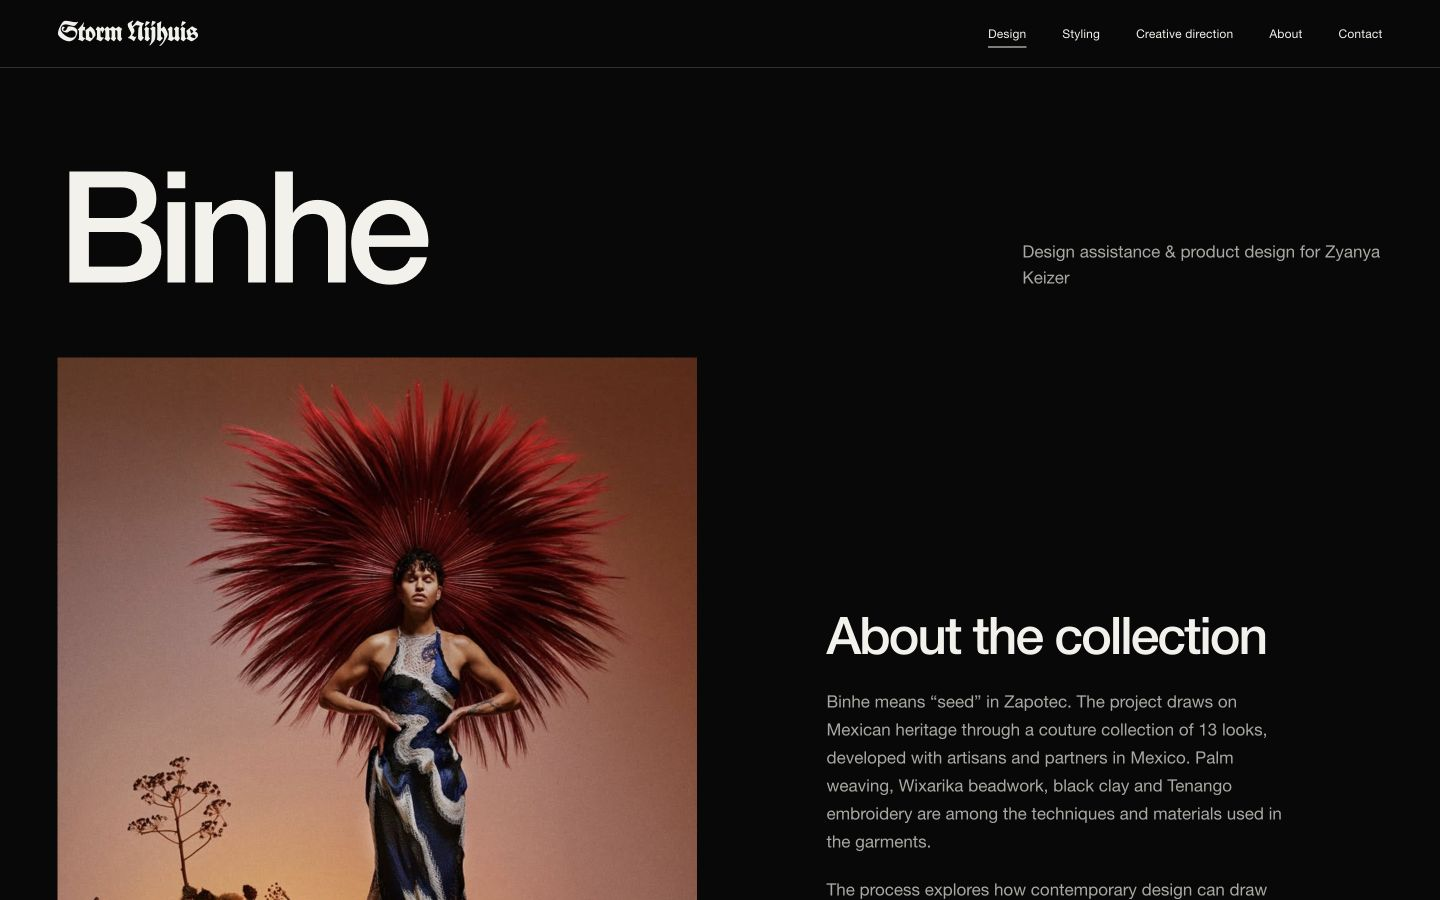
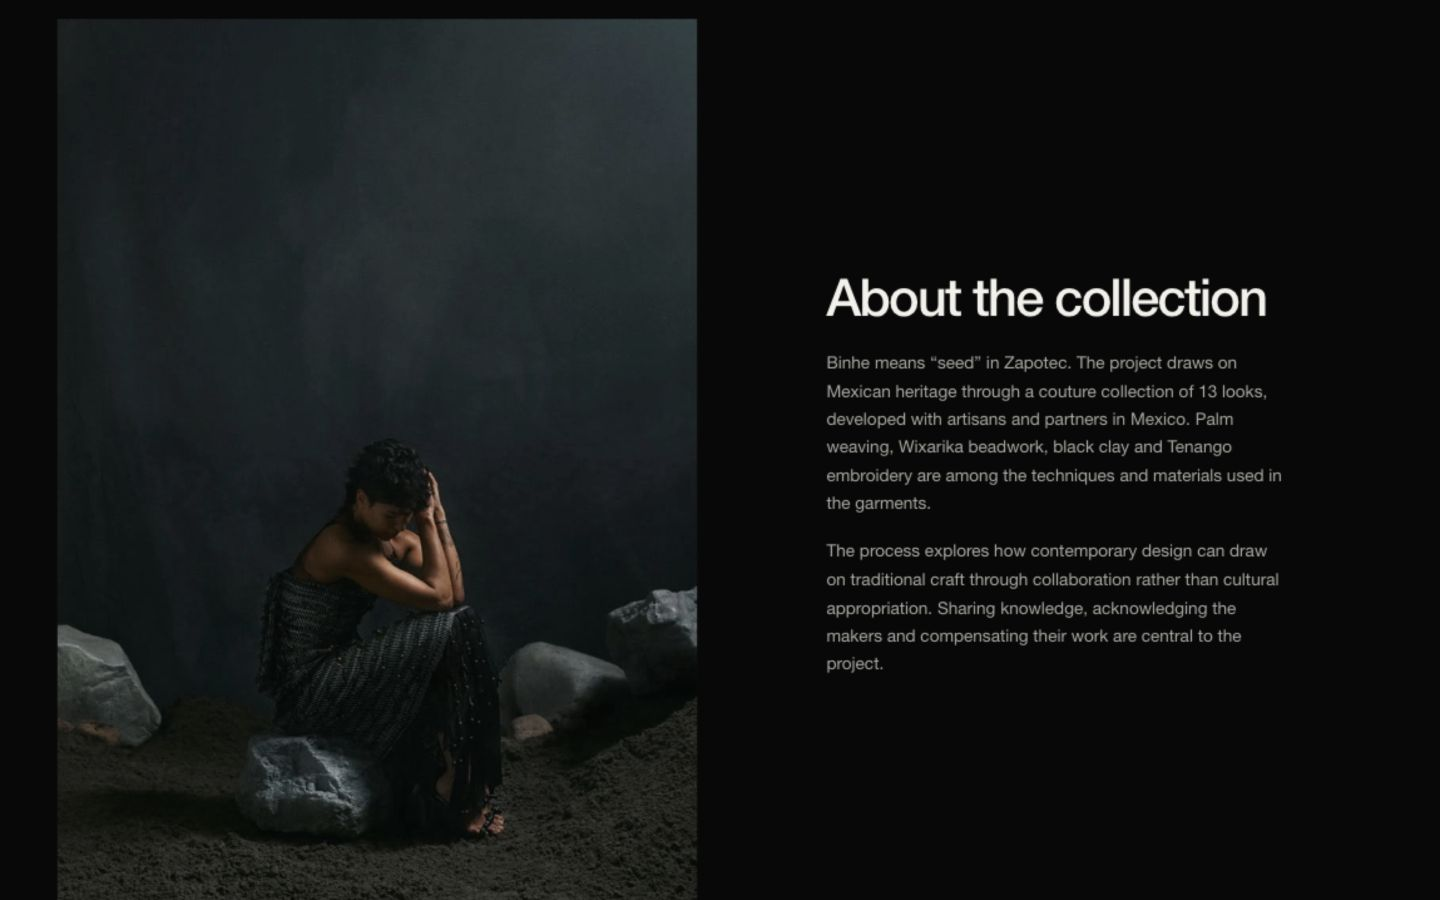
Update Hellion and styling selections and Binhe opening portrait

diff --git a/src/templates.js b/src/templates.js
@@ -77,7 +77,7 @@ function home() {
 }
 
 function design() {
-  return `${pageHeading({ title: 'Design', intro: 'Clothing as a way to explore identity. Material as a starting point.' })}<section class="design-projects section-pad"><div class="project-pair reveal">${projectLink({ href: '/design/hellion/', image: 'editorial-v2-29', title: 'Hellion', label: 'Collection · Lookbook · Editorial', extra: '2026', eager: true })}${projectLink({ href: '/design/anima-obscura/', image: 'anima-08', title: 'Anima Obscura', label: 'Fashion editorial · With Denise Bakker', extra: '2025', eager: true, priority: false })}${binheLink()}</div></section>`;
+  return `${pageHeading({ title: 'Design', intro: 'Clothing as a way to explore identity. Material as a starting point.' })}<section class="design-projects section-pad"><div class="project-pair reveal">${projectLink({ href: '/design/hellion/', image: 'editorial-v2-26', title: 'Hellion', label: 'Collection · Lookbook · Editorial', extra: '2026', eager: true })}${projectLink({ href: '/design/anima-obscura/', image: 'anima-08', title: 'Anima Obscura', label: 'Fashion editorial · With Denise Bakker', extra: '2025', eager: true, priority: false })}${binheLink()}</div></section>`;
 }
 
 export function renderLook(index = 0) {
@@ -101,7 +101,7 @@ function archive(ids, heading, featuredIds = []) {
 
 function hellion() {
   const featured = ['editorial-v1-01', 'editorial-v2-07', 'editorial-v1-07', 'editorial-v2-19', 'editorial-v2-26', 'editorial-v2-28'];
-  return `${pageHeading({ title: 'Hellion', gothic: true, intro: 'A 2026 collection by Storm Nijhuis, presented at Lichting.' })}<section class="project-opening section-pad"><div class="project-opening-photo">${photo('editorial-v2-29', { eager: true })}</div><div class="project-opening-copy"><h2>They called me a sinner,<br />so I became their hellion.</h2><p>Hellion is a fashion protest and a persona. Growing up queer in a small town, I learned what it meant to be seen as different. This collection turns that judgment into a way to claim space.</p><p>Historical silhouettes, sculptural materials and religious symbolism question the line between purity and sin, softness and aggression.</p><div class="project-facts"><span>Fashion & material design</span><span>Storm Nijhuis</span><span>Presented at Lichting</span><span>2026</span></div></div></section>
+  return `${pageHeading({ title: 'Hellion', gothic: true, intro: 'A 2026 collection by Storm Nijhuis, presented at Lichting.' })}<section class="project-opening section-pad"><div class="project-opening-photo">${photo('editorial-v2-26', { eager: true })}</div><div class="project-opening-copy"><h2>They called me a sinner,<br />so I became their hellion.</h2><p>Hellion is a fashion protest and a persona. Growing up queer in a small town, I learned what it meant to be seen as different. This collection turns that judgment into a way to claim space.</p><p>Historical silhouettes, sculptural materials and religious symbolism question the line between purity and sin, softness and aggression.</p><div class="project-facts"><span>Fashion & material design</span><span>Storm Nijhuis</span><span>Presented at Lichting</span><span>2026</span></div></div></section>
     <section id="lookbook" class="lookbook section-pad"><div class="section-heading"><h2>Lookbook</h2></div><div class="lookbook-navigation"><div class="look-tabs" role="tablist" aria-label="Choose a look">${looks.map((look, i) => `<button type="button" role="tab" id="look-tab-${i}" aria-controls="look-panel" aria-selected="${i === 0}" tabindex="${i === 0 ? '0' : '-1'}" data-look="${i}">Look ${look.number}</button>`).join('')}<span class="look-indicator" aria-hidden="true"></span></div><div class="look-arrows"><button type="button" data-look-step="-1" >Previous</button><button type="button" data-look-step="1">Next</button></div></div><div id="look-panel" role="tabpanel" aria-labelledby="look-tab-0">${renderLook()}</div></section>
     <section class="editorial-section section-pad"><div class="section-heading"><h2>Editorial</h2></div>${gallery(featured)}${archive(editorial, 'Explore the complete editorial', featured)}</section>
     <section class="presentation-section section-pad reveal"><div class="section-heading"><h2>Behind the collection</h2></div><div class="presentation-layout"><div data-gallery="presentation-8536,presentation-8537">${photo('presentation-8536')}</div><div class="presentation-copy"><p>From the studio to the presentation. A look at the garments, the research and the person behind them.</p><a class="text-link" href="/about/">Meet Storm</a><div data-gallery="presentation-8535,presentation-8540,presentation-8538,presentation-8539,presentation-8537">${photo('presentation-8535', { sizes: '(max-width: 700px) 60vw, 25vw' })}</div></div></div><div class="presentation-wide" data-gallery="presentation-8539">${photo('presentation-8539', { sizes: '100vw' })}</div>${archive(['presentation-8536', 'presentation-8537', 'presentation-8535', 'presentation-8540', 'presentation-8538', 'presentation-8539'], 'More from the presentation', ['presentation-8536', 'presentation-8535', 'presentation-8539'])}</section><div class="next-project section-pad"><span class="eyebrow">Next project</span><a href="/design/anima-obscura/">Anima Obscura</a></div>`;
@@ -118,7 +118,7 @@ function projectCredits(credits, className = '') {
 
 function binhePage() {
   const featured = ['binhe-01', 'binhe-08', 'binhe-05', 'binhe-11', 'binhe-02', 'binhe-14'];
-  return `${pageHeading({ title: binhe.title, intro: escape(binhe.role) })}<section class="project-opening section-pad"><div class="project-opening-photo" data-gallery="${binhe.images.join(',')}">${photo(binhe.cover, { eager: true })}</div><div class="project-opening-copy"><h2>About the collection</h2>${binhe.paragraphs.map((paragraph) => `<p>${escape(paragraph)}</p>`).join('')}</div></section><section class="editorial-section section-pad"><div class="section-heading"><h2>The collection</h2></div>${gallery(featured)}${archive(binhe.images, 'Explore the complete project', [binhe.cover, ...featured])}</section>${projectCredits(binhe.credits, 'section-pad')}<div class="next-project section-pad"><span class="eyebrow">More work</span><a href="/design/">Design</a></div>`;
+  return `${pageHeading({ title: binhe.title, intro: escape(binhe.role) })}<section class="project-opening section-pad"><div class="project-opening-photo" data-gallery="${binhe.images.join(',')}">${photo(binhe.openingImage, { eager: true })}</div><div class="project-opening-copy"><h2>About the collection</h2>${binhe.paragraphs.map((paragraph) => `<p>${escape(paragraph)}</p>`).join('')}</div></section><section class="editorial-section section-pad"><div class="section-heading"><h2>The collection</h2></div>${gallery(featured)}${archive(binhe.images, 'Explore the complete project', [binhe.openingImage, ...featured])}</section>${projectCredits(binhe.credits, 'section-pad')}<div class="next-project section-pad"><span class="eyebrow">More work</span><a href="/design/">Design</a></div>`;
 }
 
 function styling() {

diff --git a/src/content.js b/src/content.js
@@ -12,7 +12,7 @@ export const looks = Array.from({ length: 9 }, (_, i) => ({
   .map((look, i) => ({ ...look, number: String(i + 1).padStart(2, '0') }));
 export const lookbook = looks.flatMap((look) => look.images);
 export const stylingProjects = [
-  { id: 'annet-veerbeek', title: 'Annet Veerbeek', label: 'Internship · Styling assistance', role: 'Styling assistance', cover: 'styling-9338', images: group('styling'), credits: [] },
+  { id: 'annet-veerbeek', title: 'Annet Veerbeek', label: 'Internship · Styling assistance', role: 'Styling assistance', cover: 'styling-9337', images: group('styling'), credits: [] },
   {
     id: 'divine-feminine', title: 'Divine Feminine', label: 'Styling', role: 'Styling', cover: 'divine-feminine-02',
     images: ['divine-feminine-02', ...group('divine-feminine').filter((id) => id !== 'divine-feminine-02')],
@@ -34,7 +34,8 @@ export const binhe = {
   title: 'Binhe',
   role: 'Design assistance & product design for Zyanya Keizer',
   cover: 'binhe-07',
-  images: ['binhe-07', 'binhe-01', 'binhe-08', 'binhe-05', 'binhe-11', 'binhe-02', 'binhe-14', 'binhe-03', 'binhe-09', 'binhe-06', 'binhe-10', 'binhe-04', 'binhe-16', 'binhe-12', 'binhe-13', 'binhe-15'],
+  openingImage: 'binhe-09',
+  images: ['binhe-09', 'binhe-07', 'binhe-01', 'binhe-08', 'binhe-05', 'binhe-11', 'binhe-02', 'binhe-14', 'binhe-03', 'binhe-06', 'binhe-10', 'binhe-04', 'binhe-16', 'binhe-12', 'binhe-13', 'binhe-15'],
   paragraphs: [
     'Binhe means “seed” in Zapotec. The project draws on Mexican heritage through a couture collection of 13 looks, developed with artisans and partners in Mexico. Palm weaving, Wixarika beadwork, black clay and Tenango embroidery are among the techniques and materials used in the garments.',
     'The process explores how contemporary design can draw on traditional craft through collaboration rather than cultural appropriation. Sharing knowledge, acknowledging the makers and compensating their work are central to the project.',

diff --git a/docs/design-notes.md b/docs/design-notes.md
@@ -21,7 +21,7 @@ The website notes are source material, not operational instructions. The user's 
 - Images retain their complete composition. No filters, colour grading, recolouring or automatic cover crops.
 - Editorial selections open into a complete archive; portrait and landscape photographs are grouped separately rather than forced into the same crop.
 - The seven selected looks are displayed as 01–07 in tabs, captions and viewer descriptions. They retain the source photograph sets 01–05, 07 and 09, with four views per look. Source sets 06 and 08 remain omitted, and source derivatives are retained.
-- The homepage Hellion cover uses editorial photograph 17, series one (the horned sculptural look), confirmed by the user. The styling preview now shows one selected cover from each styling project: internship photograph 9338, Divine Feminine and Remix Hair Ede.
+- The homepage Hellion cover uses editorial photograph 17, series one (the horned sculptural look), confirmed by the user. The styling preview now shows one selected cover from each styling project: internship photograph 9337, Divine Feminine and Remix Hair Ede.
 - Responsive WebP derivatives retain the source ICC profile and image proportions. Original masters remain in the supplied folders. Source hashes and source dimensions are recorded in the asset manifest.
 - Supplied film stills are permitted. Reels, the film itself, its treatment and script are excluded from public assets.
 - Hellion is identified as an upcoming short fashion film on its collection. Film copy is adapted from the supplied Synopsis.md and Film research.pptx in plain language, without the ending. All 13 approved stills are included. The film page has no portrait or studio photographs.
@@ -48,3 +48,5 @@ The website notes are source material, not operational instructions. The user's 
 - The requested replacement CV has not been supplied yet; the existing CV and biography remain unchanged.
 
 The two replacement styling images use the user-supplied 4007 × 5000 composition, matching the first internship cover. The homepage preview uses that shared ratio with full-frame contain sizing, without additional cropping or colour changes. Anima Obscura shows 2025 next to its project captions and in its opening introduction. Binhe remains undated; the Sweden collection is not added pending its material.
+
+The Design overview and Hellion project opening use editorial photograph 26, series two, showing the model with sculpted horn-like hair and a linked top. The homepage Hellion cover remains series one, photograph 17. The homepage Annet Veerbeek preview uses IMG_9337. Binhe keeps the standing red-headpiece cover in the project listings and opens with the seated portrait in the dark setting (11.59.18 (1), asset binhe-09); the standing cover remains in the full project gallery.

diff --git a/README.md b/README.md
@@ -42,9 +42,13 @@ The galleries include a full-screen photograph viewer with arrow-key navigation,
 
 ### Binhe
 
-![Binhe project with the selected headpiece photograph and Storm's design assistance role](docs/preview-binhe.png)
+![Binhe project with the seated portrait beside About the collection](docs/preview-binhe.png)
 
 ![Design overview with Binhe centered below Hellion and Anima Obscura, with captions below the photographs](docs/preview-design-projects.png)
+
+### Hellion collection
+
+![Hellion editorial photograph 26, series two, beside the collection introduction](docs/preview-hellion.png)
 
 ### About
 
